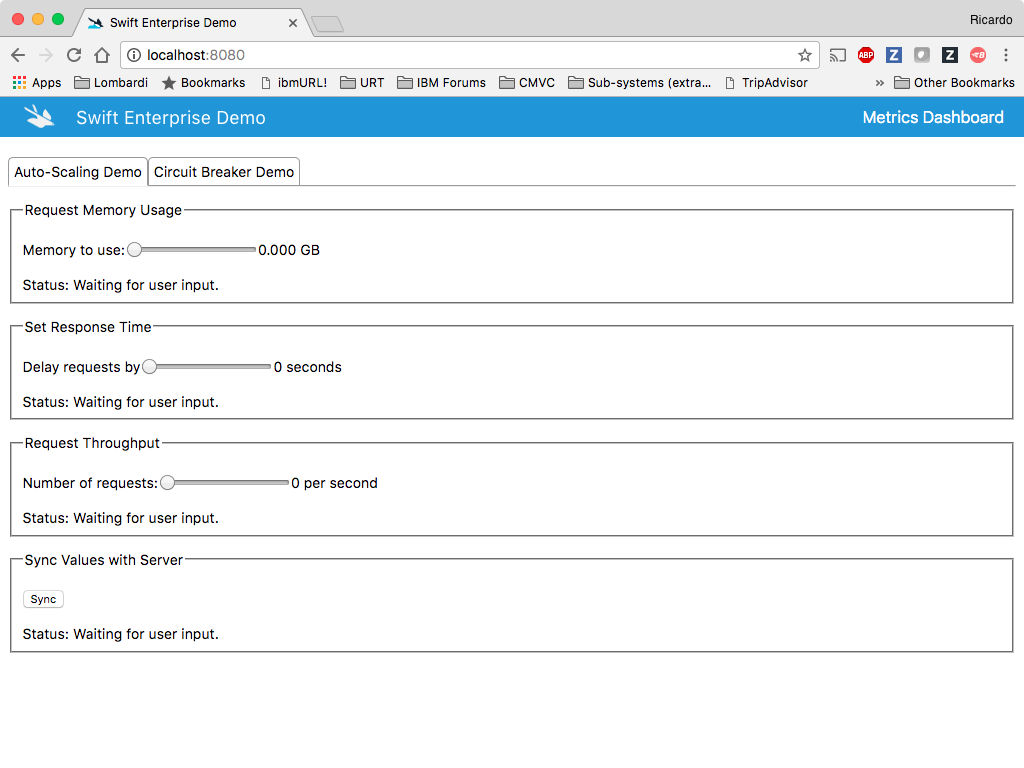
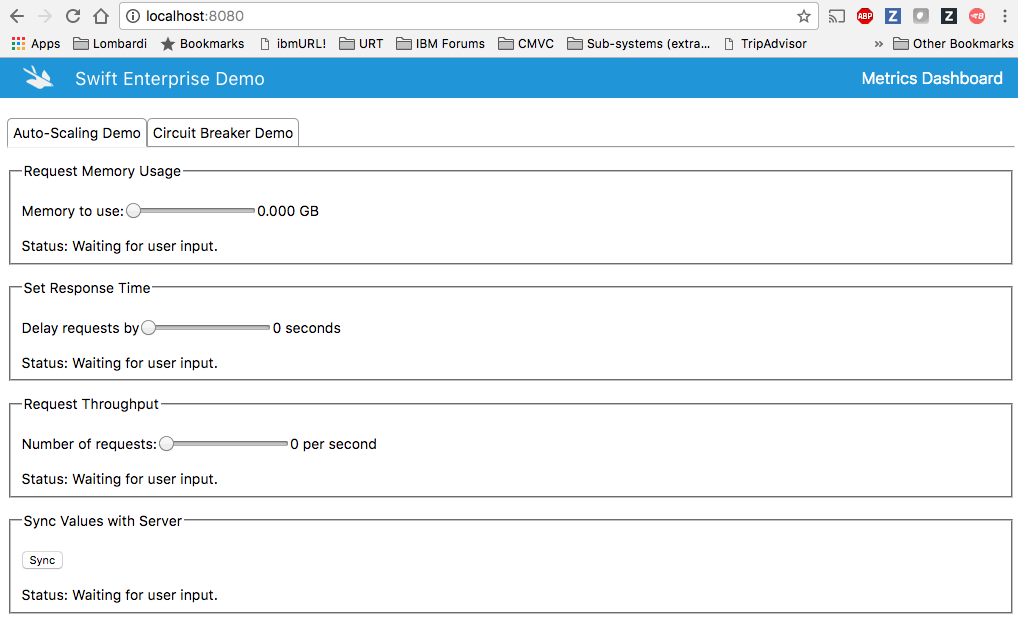
Updates to README.

Changed region(s): [[0.0, 0.0, 1.0, 0.8553], [0.0, 0.9469, 1.0, 1.0], [0.0, 0.8859, 0.0609, 0.9164]]

diff --git a/README.md b/README.md
@@ -325,7 +325,7 @@ results: []
 
 You can then use your browser of choice and point to `http://localhost:8080/` for accessing the main page of the application:
 
-<p align="center"><img src="imgs/demo-app-main-page.png" alt="demo app main page" height="768" border="1" /></p>
+<p align="center"><img src="imgs/demo-app-main-page.png" alt="demo app main page" /></p>
 
 A few points you should be aware of:
 
@@ -336,4 +336,4 @@ A few points you should be aware of:
 ### SwiftMetrics
 When running locally, you can access the SwiftMetrics dashboard by clicking on the `Metrics Dashboard` link. Doing so, will open a new tab in your browser that points to this URL: `http://localhost:8080/swiftmetrics-dash/`. The SwiftMetrics dashboard gives you access to important metrics about the health of the application, such as the average HTTP response time, HTTP throughput, CPU usage, memory usage, and environment details.
 
-<p align="center"><img src="imgs/swiftmetrics-dashboard.png" alt="swiftmetrics dashboard" height="768" border="1" /></p>
+<p align="center"><img src="imgs/swiftmetrics-dashboard.png" alt="swiftmetrics dashboard" /></p>
